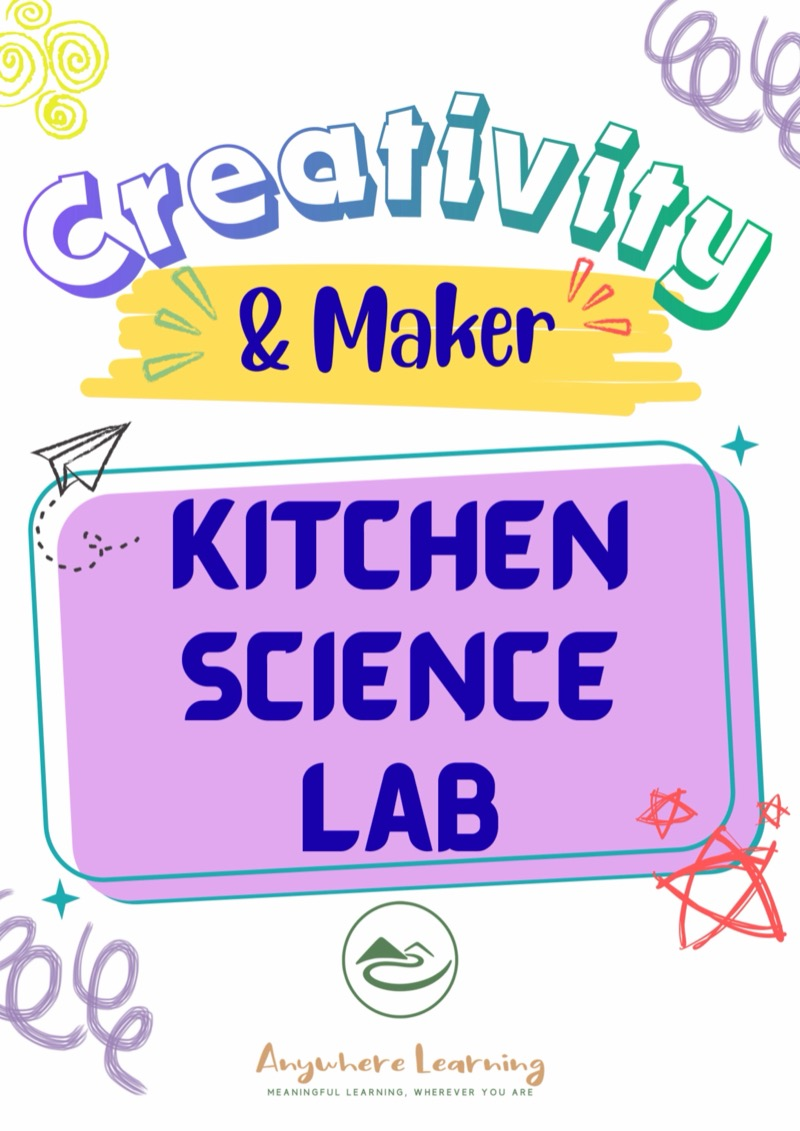
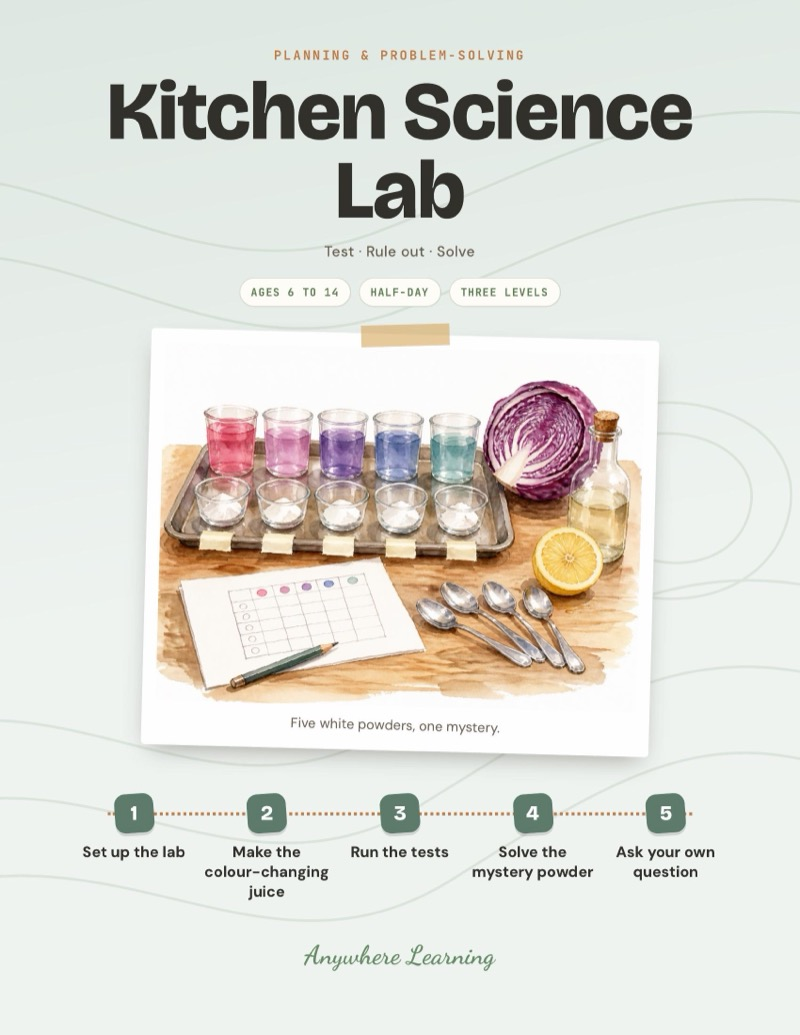
Kitchen Science Lab: redesigned as a mystery-powder lab, moved to Planning & Problem-Solving
Watercolour cover, new listing copy, Skills Map tags critical-thinking + math.

diff --git a/scripts/seed.ts b/scripts/seed.ts
@@ -168,7 +168,7 @@ async function seed() {
 
     // === NEW 10 (Jul 2026) ===
     { name: 'Grow It, Eat It', slug: 'grow-it-eat-it', description: 'Plant a fast-growing edible, tend it from seed to harvest, and eat what you grew.', shortDescription: 'Outdoor STEM science: grow a fast edible and eat it.', priceCents: 599, compareAtPriceCents: null, stripePriceId: '', blobUrl: '', imageUrl: '/products/grow-it-eat-it.jpg', category: 'outdoor-learning', isBundle: false, bundleProductIds: null, activityCount: null, ageRange: 'Ages 6–14', sortOrder: 31, active: true },
-    { name: 'Kitchen Science Lab', slug: 'kitchen-science-lab', description: 'Run real chemistry and physics experiments with everyday kitchen ingredients, then design your own.', shortDescription: 'Kitchen STEM science: real experiments with everyday ingredients.', priceCents: 599, compareAtPriceCents: null, stripePriceId: '', blobUrl: '', imageUrl: '/products/kitchen-science-lab.jpg', category: 'creativity-maker', isBundle: false, bundleProductIds: null, activityCount: null, ageRange: 'Ages 6–14', sortOrder: 42, active: true },
+    { name: 'Kitchen Science Lab', slug: 'kitchen-science-lab', description: 'Your child solves a real chemistry mystery in the kitchen: five white powders that look almost the same. They make a colour-changing juice from red cabbage, run fair tests with water and vinegar, build a results table, then identify a secret powder you hand them, ruling suspects out one test at a time. Hands-on STEM science that teaches kids to think with evidence, not guesses.', shortDescription: 'Kitchen STEM science for kids ages 6-14: identify a mystery white powder with cabbage juice, fair tests and a results table.', priceCents: 599, compareAtPriceCents: null, stripePriceId: '', blobUrl: '', imageUrl: '/products/kitchen-science-lab.jpg', category: 'planning-problem-solving', isBundle: false, bundleProductIds: null, activityCount: null, ageRange: 'Ages 6–14', sortOrder: 42, active: true },
     { name: 'The Probability Lab', slug: 'probability-lab', description: 'Build a carnival game, work out the odds, set a price and prize, and see why the house always wins.', shortDescription: 'Real-world STEM maths: build a game of chance and crack the odds.', priceCents: 599, compareAtPriceCents: null, stripePriceId: '', blobUrl: '', imageUrl: '/products/probability-lab.jpg', category: 'real-world-math', isBundle: false, bundleProductIds: null, activityCount: null, ageRange: 'Ages 6–14', sortOrder: 115, active: true },
     { name: 'Secret Code Lab', slug: 'secret-code-lab', description: 'Write and crack secret codes, break a cipher with no key, and build a coded treasure hunt.', shortDescription: 'STEM logic: write, crack, and break secret codes.', priceCents: 599, compareAtPriceCents: null, stripePriceId: '', blobUrl: '', imageUrl: '/products/secret-code-lab.jpg', category: 'planning-problem-solving', isBundle: false, bundleProductIds: null, activityCount: null, ageRange: 'Ages 6–14', sortOrder: 145, active: true },
     { name: 'The Body Owner\'s Manual', slug: 'body-owners-manual', description: 'Run real self-experiments on your own body, from heart rate to reflexes, and compile a personal body manual.', shortDescription: 'STEM science: measure your own body and write its manual.', priceCents: 599, compareAtPriceCents: null, stripePriceId: '', blobUrl: '', imageUrl: '/products/body-owners-manual.jpg', category: 'planning-problem-solving', isBundle: false, bundleProductIds: null, activityCount: null, ageRange: 'Ages 6–14', sortOrder: 146, active: true },

diff --git a/lib/fallback-products.ts b/lib/fallback-products.ts
@@ -2828,16 +2828,16 @@ export const fallbackProducts: FallbackProduct[] = [
     name: "Kitchen Science Lab",
     slug: "kitchen-science-lab",
     description:
-      "Your child turns the kitchen into a science lab, running real chemistry and physics experiments with everyday ingredients. They predict, test, change one thing, and figure out why it happened, then design their own experiment and put on a science show. Hands-on STEM science that proves science is a way of poking at the world, not a subject in a book.",
+      "Your child solves a real chemistry mystery in the kitchen: five white powders that look almost the same. They make a colour-changing juice from red cabbage, run fair tests with water and vinegar, build a results table, then identify a secret powder you hand them, ruling suspects out one test at a time. Hands-on STEM science that teaches kids to think with evidence, not guesses.",
     shortDescription:
-      "Kitchen STEM science for kids ages 6-14: run real chemistry and physics experiments with everyday ingredients and design their own.",
+      "Kitchen STEM science for kids ages 6-14: identify a mystery white powder with cabbage juice, fair tests and a results table.",
     priceCents: 599,
     compareAtPriceCents: null,
     stripePriceId: "",
     blobUrl: "",
     imageUrl: "/products/kitchen-science-lab.jpg",
-    previewFile: "Preview Creativity & Maker Kitchen Science Lab.pdf",
-    category: "creativity-maker",
+    previewFile: "Preview Planning & Problem-Solving Kitchen Science Lab v3.pdf",
+    category: "planning-problem-solving",
     isBundle: false,
     bundleProductIds: null,
     activityCount: null,

diff --git a/lib/product-descriptions.ts b/lib/product-descriptions.ts
@@ -3089,13 +3089,13 @@ export const productDescriptions: Record<string, ProductDescription> = {
   },
   'kitchen-science-lab': {
     opening:
-      'Your child turns the kitchen into a science lab, running real chemistry and physics experiments with everyday ingredients. They predict, test, change one thing, and figure out why it happened, then design their own experiment and put on a science show. Hands-on STEM science that proves science is a way of poking at the world, not a subject in a book.',
+      'Your child solves a real chemistry mystery in the kitchen: five white powders that look almost the same. They make a colour-changing juice from red cabbage, run fair tests with water and vinegar, build a results table, then identify a secret powder you hand them, ruling suspects out one test at a time. Hands-on STEM science that teaches kids to think with evidence, not guesses.',
     whatsIncluded: [
-      'Run real experiments with kitchen ingredients',
-      'Predict, test, and explain what happened',
-      'Change one thing to see what shifts',
-      'Design an original experiment',
-      'Put on a science show for the family',
+      '5 steps from five suspects to a solved mystery',
+      'Make a colour-changing juice from red cabbage',
+      'A fair-test results table for five powders',
+      'A clue key for ruling suspects out',
+      'Question ideas for their own experiment',
     ],
     skillTags: ['STEM', 'Science', 'Scientific Method', 'Prediction', 'Chemistry'],
     insideTheLearning: {

diff --git a/lib/activity-blob-urls.ts b/lib/activity-blob-urls.ts
@@ -66,7 +66,7 @@ export const ACTIVITY_BLOB_URLS: Record<string, string> = {
   "kindness-missions": "https://xkj3tzlgu6ylgllk.public.blob.vercel-storage.com/Emotional%20%26%20Social%20Skills%20-%20The%20Kindness%20Missions%20v2.pdf",
   "kinetic-sculpture": "https://xkj3tzlgu6ylgllk.public.blob.vercel-storage.com/Creativity%20%26%20Maker%20Kinetic%20Sculpture%20or%20Art%20Installation%20v3.pdf",
   "kitchen-math-challenge": "https://xkj3tzlgu6ylgllk.public.blob.vercel-storage.com/Real-world%20math%20-%20Kitchen%20math%20%26%20meal%20planning%20challenge%20v4.pdf",
-  "kitchen-science-lab": "https://xkj3tzlgu6ylgllk.public.blob.vercel-storage.com/Creativity%20%26%20Maker%20Kitchen%20Science%20Lab%20v2.pdf",
+  "kitchen-science-lab": "https://xkj3tzlgu6ylgllk.public.blob.vercel-storage.com/Planning%20%26%20Problem-Solving%20Kitchen%20Science%20Lab%20v3.pdf",
   "land-art-challenges": "https://xkj3tzlgu6ylgllk.public.blob.vercel-storage.com/Outdoor%20Learning%20-%20Land%20Art%20Challenge%20Cards%20v4.pdf",
   "local-language-mission": "https://xkj3tzlgu6ylgllk.public.blob.vercel-storage.com/Worldschooling%20-%20Local%20Language%20Mission%20v2.pdf",
   "market-stall-pitch": "https://xkj3tzlgu6ylgllk.public.blob.vercel-storage.com/Communication%20%26%20Writing%20-%20Market%20Stall%20Pitch%20v4.pdf",

diff --git a/lib/roadmap.ts b/lib/roadmap.ts
@@ -401,7 +401,7 @@ const SUPPLEMENTAL_TERRITORY_TAGS: Record<string, string[]> = {
   'nature-geography-field-study': ['physical', 'critical-thinking'],
   'street-explorer-map-maker': ['creativity', 'critical-thinking', 'physical'],
   'grow-it-eat-it': ['physical', 'self-management', 'critical-thinking'],
-  'kitchen-science-lab': ['critical-thinking', 'creativity'],
+  'kitchen-science-lab': ['critical-thinking', 'math'],
   'probability-lab': ['math', 'critical-thinking'],
   'secret-code-lab': ['critical-thinking', 'math'],
   'body-owners-manual': ['physical', 'critical-thinking', 'math'],
